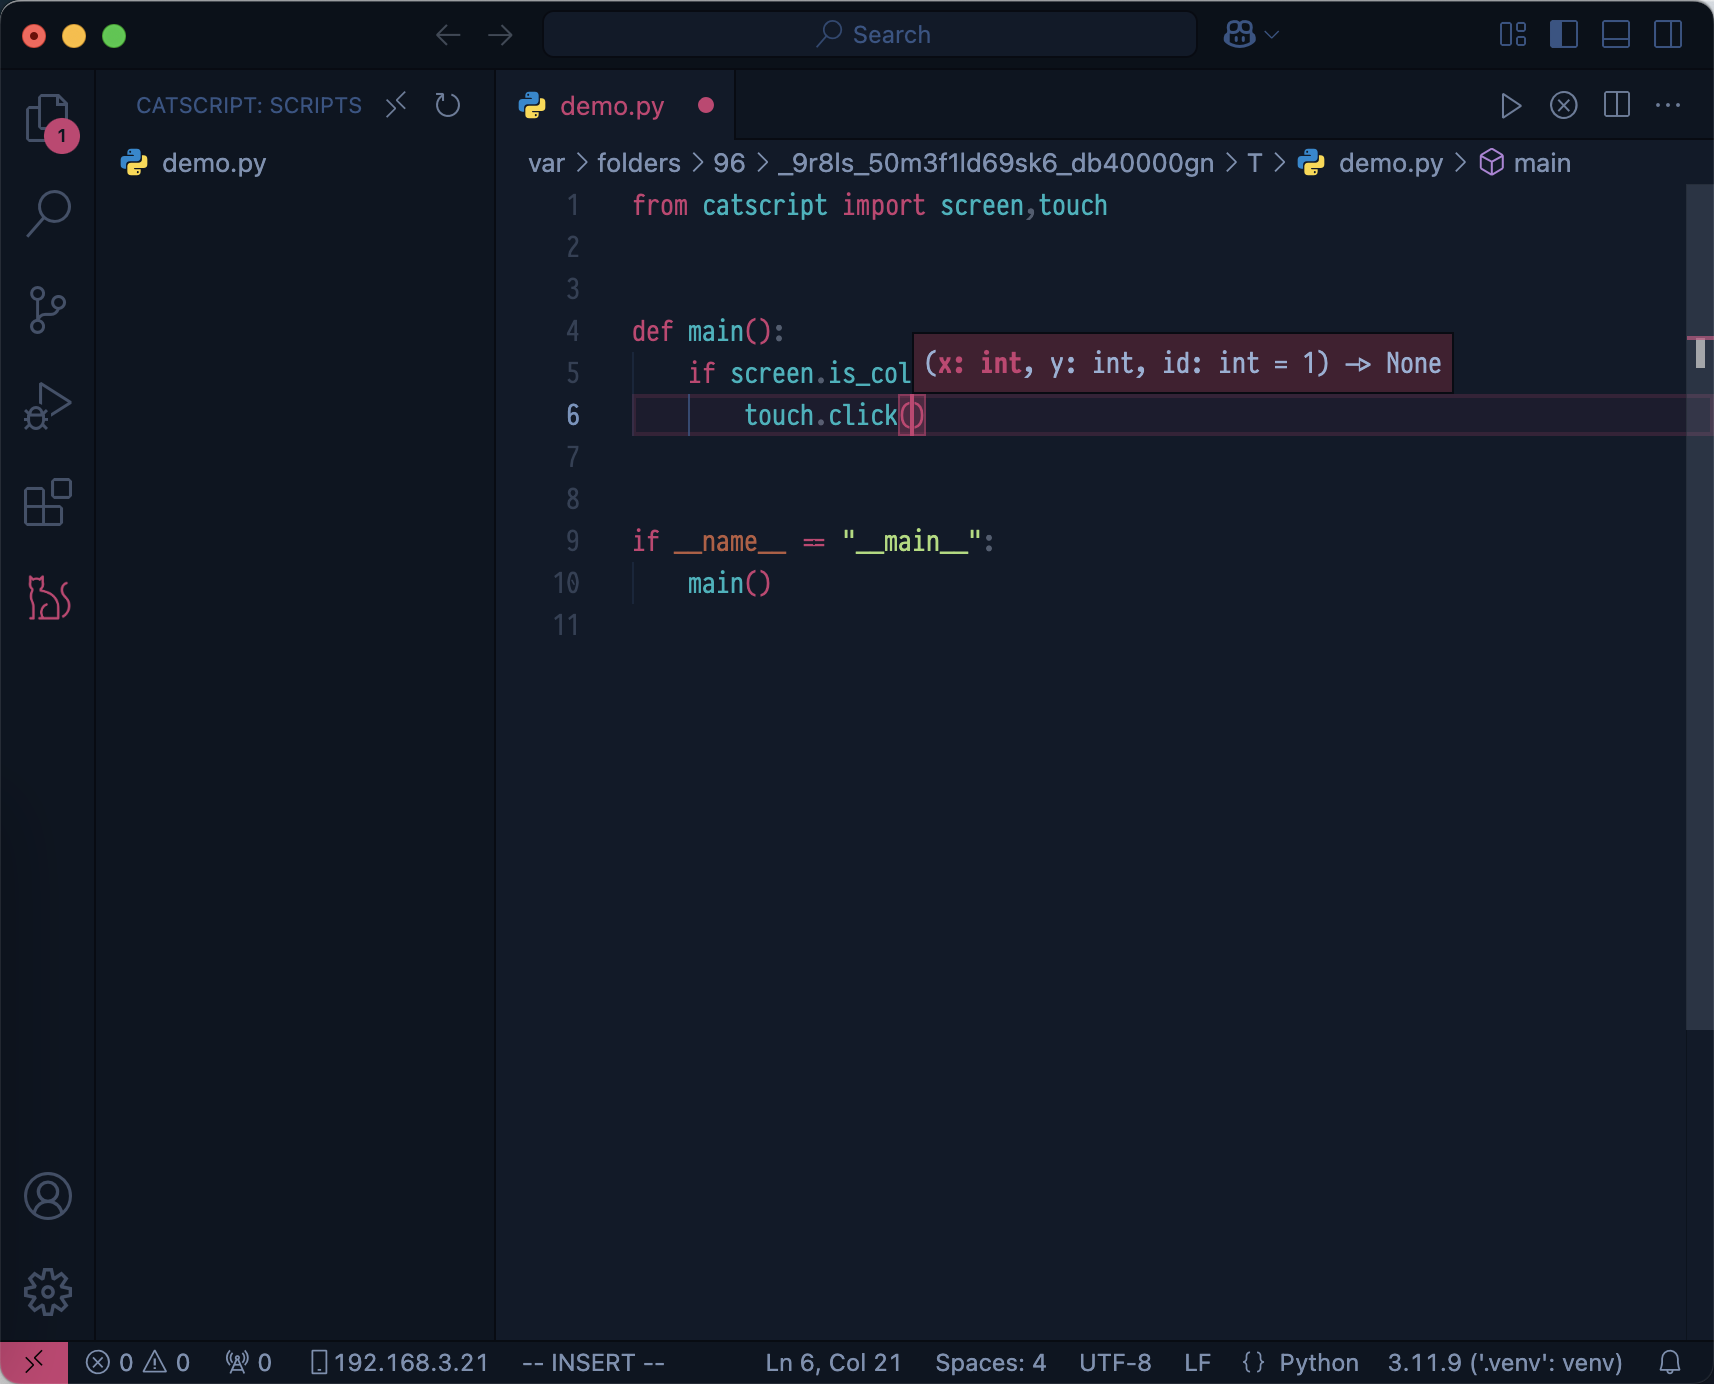
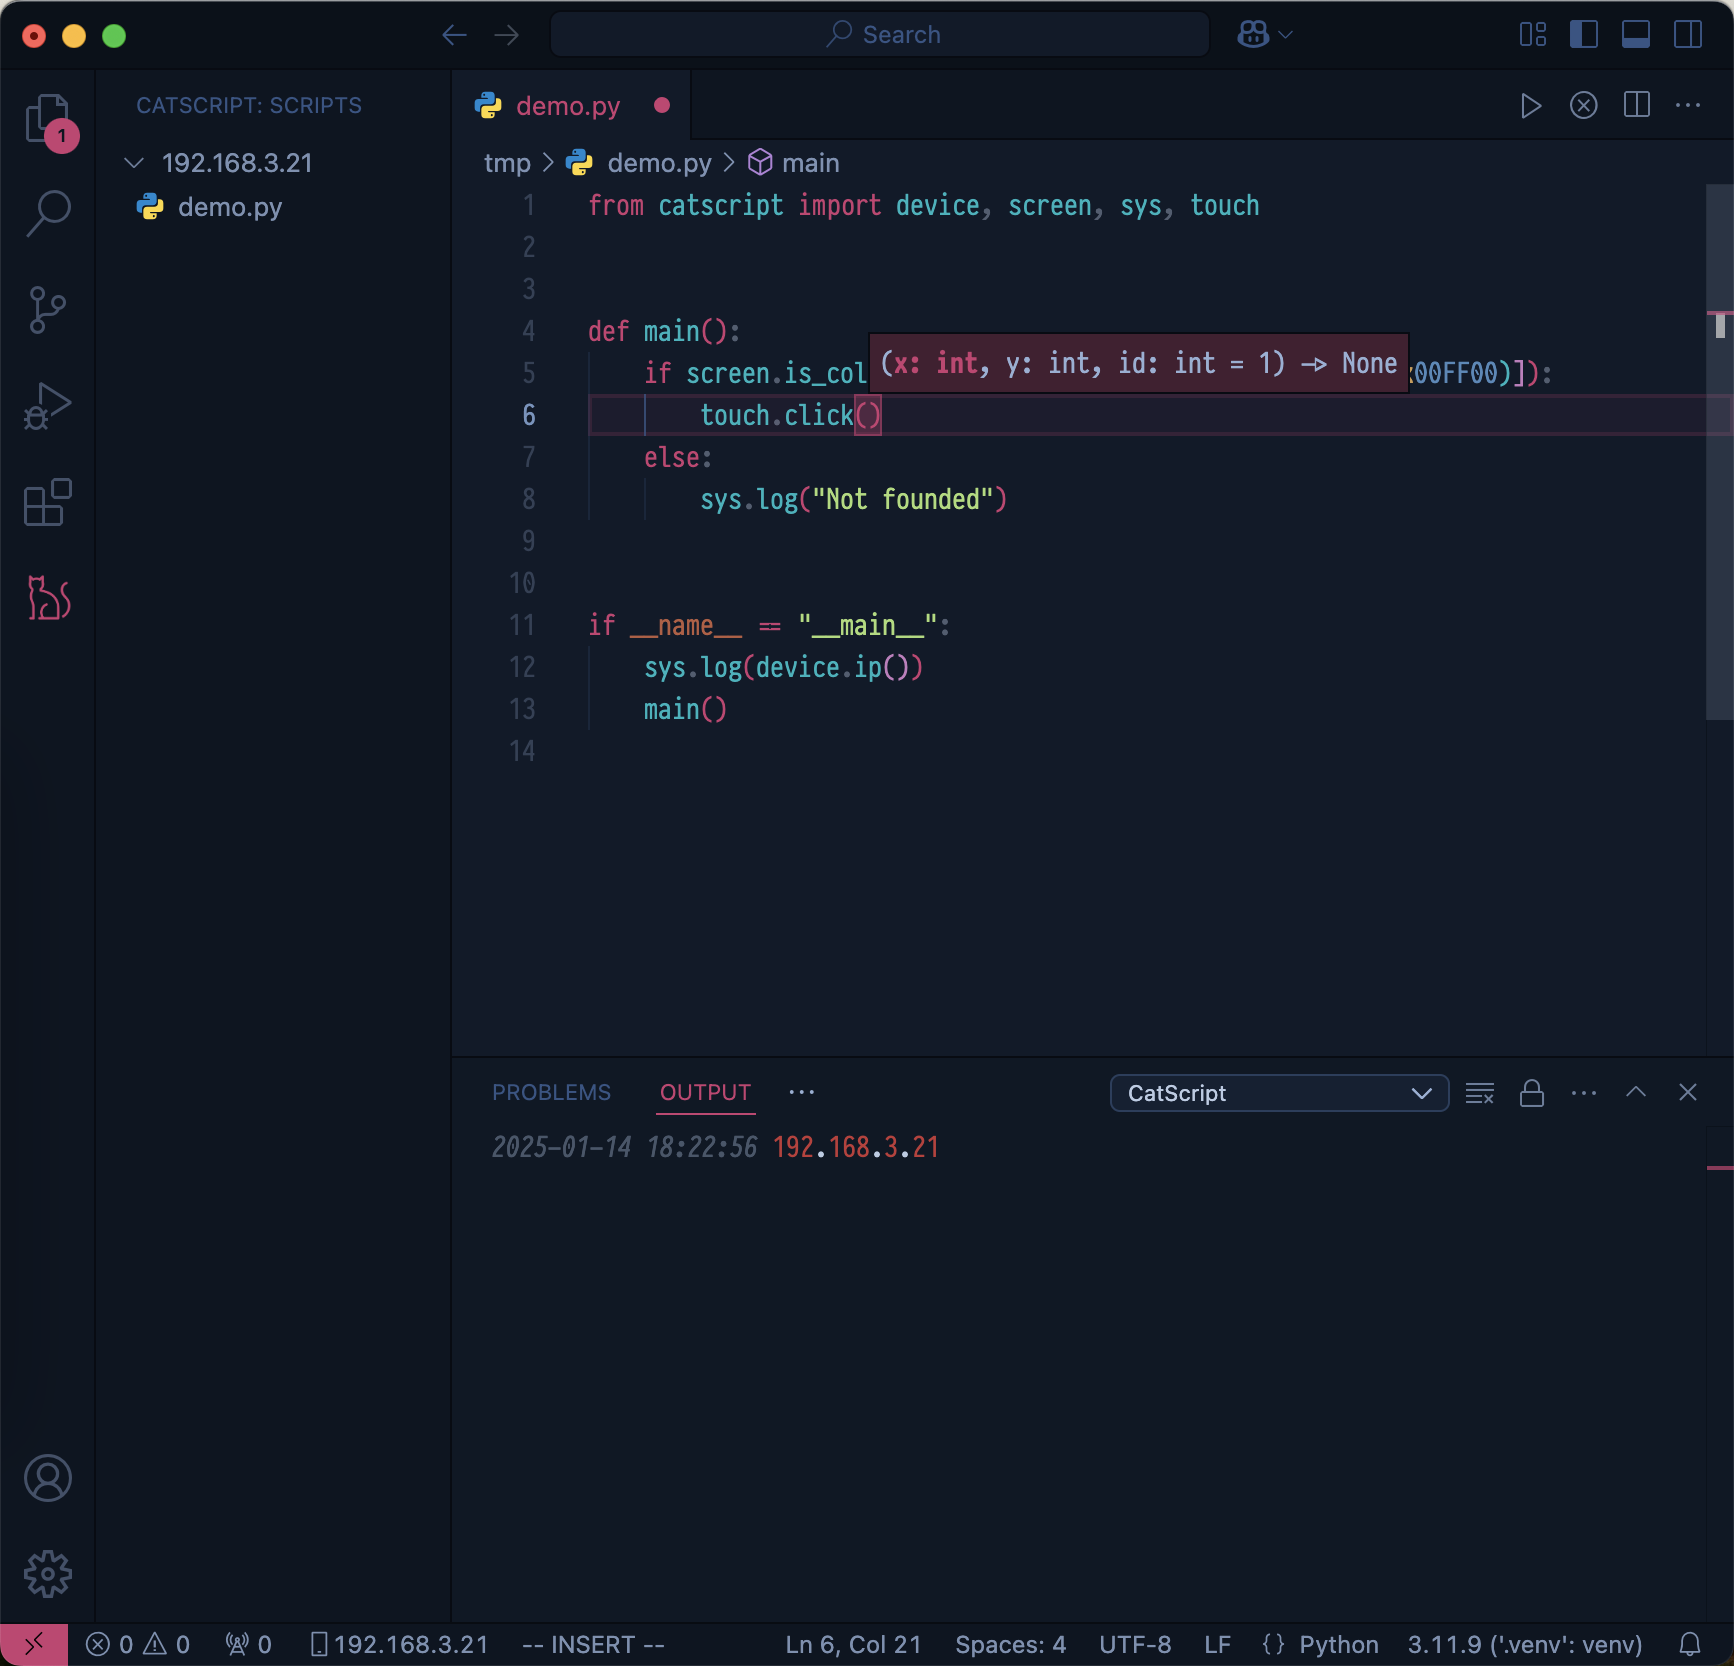
release: 1.2.0

diff --git a/docs/dev/mod/screen.md b/docs/dev/mod/screen.md
@@ -33,7 +33,7 @@ from catscript import screen, sys
 
 if __name__ == "__main__":
     (w, h) = screen.size()
-    sys.toast(f"Screen size: ({w}, {h})")
+    sys.log(f"Screen size: ({w}, {h}).")
 ```
 
 ## screen.color()
@@ -64,7 +64,7 @@ from catscript import screen, sys
 
 if __name__ == "__main__":
     color = screen.color(100, 100)
-    sys.toast(f"{The color is #06x}")
+    sys.log(f"The color is {color:#06x}.")
 ```
 
 ## screen.is_color()
@@ -106,9 +106,9 @@ if __name__ == "__main__":
         ],
         precision=0.9,
     ):
-        sys.toast("Yes")
+        sys.log("Yes.")
     else:
-        sys.toast("No")
+        sys.log("No.")
 ```
 
 ## screen.find_color()
@@ -151,9 +151,9 @@ if __name__ == "__main__":
     # Find the red color on the screen.
     (x, y) = screen.find_color(0xFF0000)[0]
     if x != -1 and y != -1:
-        sys.toast(f"Color is at ({x}, {y})")
+        sys.log(f"Color is at ({x}, {y}).")
     else:
-        sys.toast("Not found")
+        sys.log("Not found.")
 ```
 
 ```python [Example 2]
@@ -167,9 +167,9 @@ if __name__ == "__main__":
         0xFF0000, offset=[(10, -10, 0x00FF00), (20, 30, 0x0000FF)]
     )[0]
     if x != -1 and y != -1:
-        sys.toast(f"Color is at ({x}, {y})")
+        sys.log(f"Color is at ({x}, {y}).")
     else:
-        sys.toast("Not found")
+        sys.log("Not found.")
 ```
 
 ```python [Example 3]
@@ -194,9 +194,9 @@ if __name__ == "__main__":
     )
     if coordinates[0][0] != -1 and coordinates[0][1] != -1:
         for index, (x, y) in coordinates:
-            sys.toast(f"<{index}>: (${x}, ${y})")
+            sys.log(f"<{index}>: (${x}, ${y}).")
     else:
-        sys.toast("Not found")
+        sys.log("Not found.")
 ```
 :::
 
@@ -247,9 +247,9 @@ if __name__ == "__main__":
         all=False,
     )[0]
     if x != -1 and y != -1:
-        sys.toast(f"Image is at ({x}, {y})")
+        sys.log(f"Image is at ({x}, {y}).")
     else:
-        sys.toast("Not found")
+        sys.log("Not found.")
 ```
 
 ## screen.snapshot()

diff --git a/docs/guide/quick-start.md b/docs/guide/quick-start.md
@@ -2,7 +2,7 @@
 
 > Here are the basic operations for using CatScript:
 
-## Creating a Script
+## Create a Script
 
 1. Click the menu button at the top right of the main interface.
 2. Choose "New" from the dropdown menu.
@@ -10,28 +10,28 @@
 4. Input the script content in the script editor.
 5. Save the script by clicking the save button at the top right of the script editor.
 
-## Importing a Script
+## Import a Script
 
 1. Access the CatScript web interface by entering http://deviceIP:5000 in your computer's browser.
 2. Click the menu button at the top right of the main interface.
 3. Select "Import" from the dropdown menu.
 4. Choose the script you want to import from the file explorer.
 
-## Configuring Scripts
+## Configure a Script
 
 1. Select a script that supports configuration from the script list on the main interface.
 2. Click the "Configure" button in the action sheet.
 3. Save your changes by clicking the save button at the top right.
 
-## Playing a Script
+## Play a Script
 
 1. Choose the script you wish to play from the script list on the main interface.
 2. Click the "Run" button in the action sheet.
 
-## Replaying a Script
+## Replay a Script
 
 After playing a script, pressing the volume key will prompt you to replay the script. Select "OK" to replay or "Cancel" to dismiss the prompt.
 
-## Stopping a Script
+## Stop a Script
 
 You can stop a script at any time during execution by pressing the volume key.

diff --git a/docs/dev/std/urllib.md b/docs/dev/std/urllib.md
@@ -16,9 +16,9 @@ from catscript import sys
 
 if __name__ == "__main__":
     response = urlopen("http://httpbin.org/get")
-    sys.toast(str(response.status))
+    sys.log(response.status)
     data = response.read()
-    sys.toast(data)
+    sys.log(data)
 ```
 
 HTTPS:
@@ -30,9 +30,9 @@ from catscript import sys
 
 if __name__ == "__main__":
     response = urlopen("https://httpbin.org/get", context=ssl.SSLContext())
-    sys.toast(str(response.status))
+    sys.log(response.status)
     data = response.read()
-    sys.toast(data)
+    sys.log(data)
 ```
 
 ## POST Method
@@ -47,9 +47,9 @@ from catscript import sys
 if __name__ == "__main__":
     params = urllib.parse.urlencode({"name": "test"}).encode()
     response = urlopen("http://httpbin.org/post", params)
-    sys.toast(str(response.status))
+    sys.log(response.status)
     data = response.read()
-    sys.toast(data)
+    sys.log(data)
 ```
 
 HTTPS:
@@ -63,7 +63,7 @@ from catscript import sys
 if __name__ == "__main__":
     params = urllib.parse.urlencode({"name": "test"}).encode()
     response = urlopen("https://httpbin.org/post", params, context=ssl.SSLContext())
-    sys.toast(str(response.status))
+    sys.log(response.status)
     data = response.read()
-    sys.toast(data)
+    sys.log(data)
 ```

diff --git a/docs/dev/mod/sys.md b/docs/dev/mod/sys.md
@@ -26,7 +26,8 @@ sys.alert(text: str) -> str
 from catscript import sys
 
 if __name__ == "__main__":
-    sys.toast(sys.alert("Test"))
+    button = sys.alert("Test message.")
+    sys.log(f"You pressed {button}.")
 ```
 
 ## sys.execute()
@@ -55,8 +56,36 @@ sys.execute(command: str) -> str
 from catscript import sys
 
 if __name__ == "__main__":
-    sys.toast(sys.execute("whoami").strip())
+    sys.log(sys.execute("whoami").strip())
 ```
+
+## sys.log()
+
+> Output any object to logs, logs can be viewed in the VS Code extension and also in "CatScript -> Settings -> Logs".
+
+```python
+sys.log(object: object) -> None
+```
+
+### Arguments
+
+| Name   | Type   | Default | Description        |
+| ------ | ------ | ------- | ------------------ |
+| object | object |         | The object to log. |
+
+### Return
+
+None
+
+### Example
+
+```python
+from catscript import sys
+
+if __name__ == "__main__":
+    sys.log(device.ip())
+```
+
 
 ## sys.paste()
 

diff --git a/docs/dev/mod/device.md b/docs/dev/mod/device.md
@@ -24,7 +24,7 @@ None.
 from catscript import device, sys
 
 if __name__ == "__main__":
-    sys.toast(device.ip())
+    sys.log(device.ip())
 ```
 
 ## device.name()
@@ -51,7 +51,7 @@ None.
 from catscript import device, sys
 
 if __name__ == "__main__":
-    sys.toast(device.name())
+    sys.log(device.name())
 ```
 
 ## device.sn()
@@ -78,5 +78,5 @@ None.
 from catscript import device, sys
 
 if __name__ == "__main__":
-    sys.toast(device.sn())
+    sys.log(device.sn())
 ```

diff --git a/docs/dev/api.md b/docs/dev/api.md
@@ -1,0 +1,33 @@
+# API Reference
+
+We provide some HTTP APIs to remotely control the behavior of CatScript.
+
+::: tip
+The base URL for these APIs is http://deviceIP:5000.
+:::
+
+## Play a Script
+
+```http
+POST /api/script/demo.py/run
+```
+
+```json
+{
+    "error": "",
+    "data": {}
+}
+```
+
+## Stop a Script
+
+```http
+POST /api/script/stop
+```
+
+```json
+{
+    "error": "",
+    "data": {}
+}
+```

diff --git a/docs/dev/std/json.md b/docs/dev/std/json.md
@@ -9,6 +9,6 @@ from catscript import sys
 if __name__ == "__main__":
     value = {"a": 1, "b": 2}
     s = json.dumps(value)
-    sys.toast(s)
-    sys.toast(str(json.loads(s)["a"]))
+    sys.log(s)
+    sys.log(json.loads(s)["a"])
 ```

diff --git a/docs/dev/script-config.md b/docs/dev/script-config.md
@@ -41,7 +41,7 @@ config = [
 ]
 
 if __name__ == "__main__":
-    sys.toast(str(script.config()), 3000)
+    sys.log(script.config())
 ```
 
 The corresponding configuration interface is illustrated below:

diff --git a/docs/dev/std/pickle.md b/docs/dev/std/pickle.md
@@ -16,5 +16,5 @@ if __name__ == "__main__":
         pickle.dump(data, f)
 
     with open("/tmp/data.pickle", "rb") as f:
-        sys.toast(pickle.load(f)["b"])
+        sys.log(pickle.load(f)["b"])
 ```

diff --git a/docs/dev/mod/app.md b/docs/dev/mod/app.md
@@ -26,7 +26,7 @@ None.
 from catscript import app, sys
 
 if __name__ == "__main__":
-    sys.toast(app.front())
+    sys.log(app.front())
 ```
 
 ## app.run()

diff --git a/docs/dev/std/math.md b/docs/dev/std/math.md
@@ -7,5 +7,5 @@ import math
 from catscript import sys
 
 if __name__ == "__main__":
-    sys.toast(str(math.sin(math.pi)))
+    sys.log(math.sin(math.pi))
 ```

diff --git a/docs/dev/mod/script.md b/docs/dev/mod/script.md
@@ -37,5 +37,5 @@ config = [
 ]
 
 if __name__ == "__main__":
-    sys.toast(script.config()["name"])
+    sys.log(script.config()["name"])
 ```
